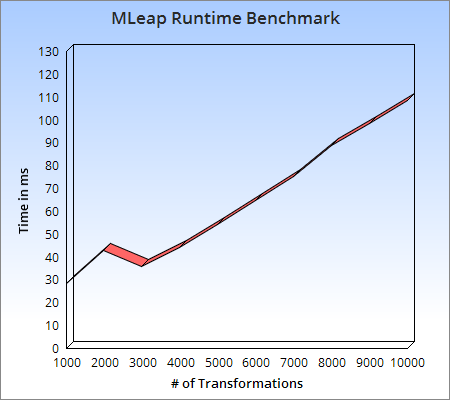
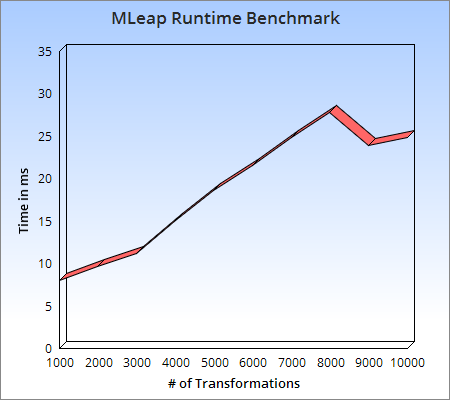
Update benchmarks.

diff --git a/blog/mleap.md b/blog/mleap.md
@@ -100,7 +100,7 @@ curl -v -XPOST \
 -d @/tmp/frame.json http://localhost:8080/transform
 ```
 
-And voilà, we have our transformed LeapFrame with our price prediction as the last value in the array. This transformation did not use a SparkContext, and we did not have to include any Spark libraries to make it happen. On average, the actual transformation time is about __.011ms__, with serialization/deserialization taking up the majority of time in our API server. If we were to take the simple approach of Kryo serializing our Spark pipeline then running it with a local SparkContext on our API server, average transformation time increases to __22ms__. MLeap transformations currently execute around __2000x__ faster than out-of-the box Spark transformations for one-off requests.
+And voilà, we have our transformed LeapFrame with our price prediction as the last value in the array. This transformation did not use a SparkContext, and we did not have to include any Spark libraries to make it happen. On average, the actual transformation time is about __.0025ms__, with serialization/deserialization taking up the majority of time in our API server. If we were to take the simple approach of Kryo serializing our Spark pipeline then running it with a local SparkContext on our API server, average transformation time increases to __22ms__. MLeap transformations currently execute around __9000x__ faster than out-of-the box Spark transformations for one-off requests.
 
 ## Benchmarks
 
@@ -116,7 +116,7 @@ Scala Version 2.11.7
 
 ### MLeap Runtime Benchmark
 
-This benchmark takes the transformer we built then transforms the sample dataframe over and over again. As expected, transformation time increases linearly with the number of transformations performed. For this transformation, the average time to transform is about __.011ms__.
+This benchmark takes the transformer we built then transforms the sample dataframe over and over again. As expected, transformation time increases linearly with the number of transformations performed. For this transformation, the average time to transform is about __.0025ms__.
 
 ![MLeap Runtime Benchmark](runtime_benchmark.png)
 
